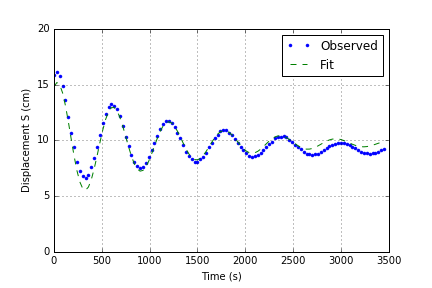
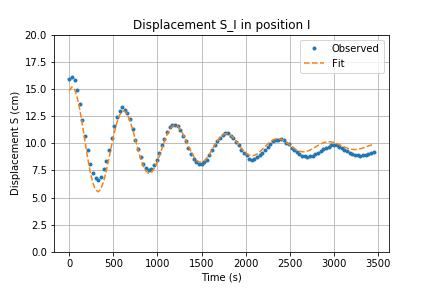
Corrected cavendish analysis script

Changed region(s): [[0.0301, 0.0625, 0.9329, 1.0]]

diff --git a/lab3/cavendish.py b/lab3/cavendish.py
@@ -1,3 +1,4 @@
+
 import math
 
 import matplotlib.pyplot as plt
@@ -6,9 +7,9 @@ import pandas as pd
 from scipy import optimize
 
 
-def func(t, A, tau, omega, phi, C):
+def func(t, A, tau, T, phi, C):
     """Function to fit data."""
-    return A*np.exp(-t/tau)*np.cos(omega*t + phi) + C
+    return A*np.exp(-t/tau)*np.cos(2.0*math.pi*t/T + phi) + C
 
 
 # Given constants and measured values
@@ -51,10 +52,9 @@ S_1 = 9.6
 T = 600.0
 A = 15.9
 tau = 30.0
-omega = 2*math.pi/T
 phi = 1.0
 
-guess_params1 = [A, tau, omega, phi, S_1]
+guess_params1 = [A, tau, T, phi, S_1]
 
 param_fit1, pcov1 = optimize.curve_fit(func, 30*pos1[num],
                                        pos1[pos], p0=guess_params1,
@@ -63,29 +63,38 @@ param_fit1, pcov1 = optimize.curve_fit(func, 30*pos1[num],
 # Extract estimates from position 1 fit function
 A_1 = param_fit1[0]
 tau_1 = param_fit1[1]
-omega_1 = param_fit1[2]
+T_1 = param_fit1[2]
 phi_1 = param_fit1[3]
 S_1 = param_fit1[4]
 
 # Extract errors
 perr1 = np.sqrt(np.diag(pcov1))
 
+delta_A_1 = perr1[0]
+delta_tau_1 = perr1[1]
 delta_S_1 = perr1[4]
-delta_omega_1 = perr1[2]
-delta_T_1 = 2*math.pi*delta_omega_1/omega_1**2
+delta_T_1 = perr1[2]
+delta_phi_1 = perr1[3]
 
-y_fit1 = func(30*pos1[num], A_1, tau_1, omega_1, phi_1, S_1)
+y_fit1 = func(30*pos1[num], A_1, tau_1, T_1, phi_1, S_1)
+
+print "Optiimized fit parameters in position I"
+print "A = {0} +/- {1}".format(A_1, delta_A_1)
+print "tau = {0} +/- {1}".format(tau_1, delta_tau_1)
+print "T = {0} +/- {1}".format(T_1, delta_T_1)
+print "phi = {0} +/- {1}".format(phi_1, delta_phi_1)
+print "S_1 = {0} +/- {1}".format(S_1, delta_S_1)
+print ""
 
 # Fit data from position 2 reading with fit function
 # Initial parameter guess for position 2
 S_2 = 9.6
 T = 600.0
 A = 6.0
-tau = 40.0
-omega = 2*math.pi/T
+tau = 500.0
 phi = 1.0
 
-guess_params2 = [A, tau, omega, phi, S_2]
+guess_params2 = [A, tau, T, phi, S_2]
 
 param_fit2, pcov2 = optimize.curve_fit(func, 30*pos2[num],
                                        pos2[pos], p0=guess_params2,
@@ -94,30 +103,44 @@ param_fit2, pcov2 = optimize.curve_fit(func, 30*pos2[num],
 # Extract estimates from position 2 fit function
 A_2 = param_fit2[0]
 tau_2 = param_fit2[1]
-omega_2 = param_fit2[2]
+T_2 = param_fit2[2]
 phi_2 = param_fit2[3]
 S_2 = param_fit2[4]
-
 # Extract errors
 perr2 = np.sqrt(np.diag(pcov2))
 
+delta_A_2 = perr2[0]
+delta_tau_2 = perr2[1]
 delta_S_2 = perr2[4]
-delta_omega_2 = perr2[2]
-delta_T_2 = 2*math.pi*delta_omega_2/omega_2**2
+delta_T_2 = perr2[2]
+delta_phi_2 = perr2[3]
 
-y_fit2 = func(30*pos2[num], A_2, tau_2, omega_2, phi_2, S_2)
+y_fit2 = func(30*pos2[num], A_2, tau_2, T_2, phi_2, S_2)
+
+print "Optiimized fit parameters in position I"
+print "A = {0} +/- {1}".format(A_2, delta_A_2)
+print "tau = {0} +/- {1}".format(tau_2, delta_tau_2)
+print "T = {0} +/- {1}".format(T_2, delta_T_2)
+print "phi = {0} +/- {1}".format(phi_2, delta_phi_2)
+print "S_2 = {0} +/- {1}".format(S_2, delta_S_2)
+print ""
 
 # Prepare computed fit values for computations
 # Average Period
-T = math.pi*((1.0/abs(omega_1)) + (1.0/abs(omega_2)))
+
+S_1
+T = (T_1 + T_2)/2.0
 S_1 = S_1*1e-2
 S_2 = S_2*1e-2
+delta_S_1 = delta_S_1*1e-2
+delta_S_2 = delta_S_2*1e-2
 delta_T = delta_T_1 + delta_T_2
 
 # Compute estimate of graviational constant G
 G_computed = (math.pi**2)*(b**2)*d*(S_1 - S_2)*L_0 / \
              (m_1*(T**2)*((L_0**2) + (L_1**2)))
-
+computed_discrepancy = G_computed - G
+computed_error = ((G_computed - G)/G)*100
 # Compute the uncertainty of G estimate
 delta_G_computed = G_computed * \
                    math.sqrt(((delta_S_1**2 + delta_S_2**2)/(S_1 - S_2)**2) +
@@ -127,17 +150,24 @@ delta_G_computed = G_computed * \
 
 # Compute G correction due to antitorque moment
 G_corrected = G_computed * K
-
+corrected_discrepancy = G_corrected - G
+corrected_error = ((G_corrected - G)/G)*100
 # Corrected uncertainty in G
 delta_G_corrected = delta_G_computed * K
 
 # Print results
 print "Results of graviational constant G"
 print "G_actual = {0} m^3 kg^-1 s^-2".format(G)
+print ""
 print "G_computed = {0} +/- {1} m^3 kg^-1 s^-2".format(G_computed,
                                                        delta_G_computed)
+print "Discrepancy = {0}".format(computed_discrepancy)
+print "Percentage error = {0}%".format(computed_error)
+print ""
 print "G_corrected = {0} +/- {1} m^3 kg^-1 s^-2".format(G_corrected,
                                                         delta_G_corrected)
+print "Discrepancy = {0}".format(corrected_discrepancy)
+print "Percentage error = {0}%".format(corrected_error)
 
 # Plot data
 pos1_plot, ax1 = plt.subplots()
@@ -147,7 +177,8 @@ pos2_plot, ax2 = plt.subplots()
 ax1.plot(30*pos1[num], pos1[pos], label="Observed", linestyle="", marker=".")
 ax1.plot(30*pos1[num], y_fit1, label="Fit", linestyle="--")
 
-ax1.set(title="", xlabel="Time (s)", ylabel="Displacement S (cm)",
+ax1.set(title="Displacement S_I in position I",
+        xlabel="Time (s)", ylabel="Displacement S (cm)",
         ylim=[0, 20])
 ax1.legend(loc="upper right")
 ax1.grid(True)
@@ -156,7 +187,8 @@ ax1.grid(True)
 ax2.plot(30*pos2[num], pos2[pos], label="Observed", linestyle="", marker=".")
 ax2.plot(30*pos2[num], y_fit2, label="Fit", linestyle="--")
 
-ax2.set(title="", xlabel="Time (s)", ylabel="Displacement S (cm)",
+ax2.set(title="Displacement S_II in position II", xlabel="Time (s)",
+        ylabel="Displacement S (cm)",
         ylim=[-2, 12])
 ax2.legend(loc="upper right")
 ax2.grid(True)
